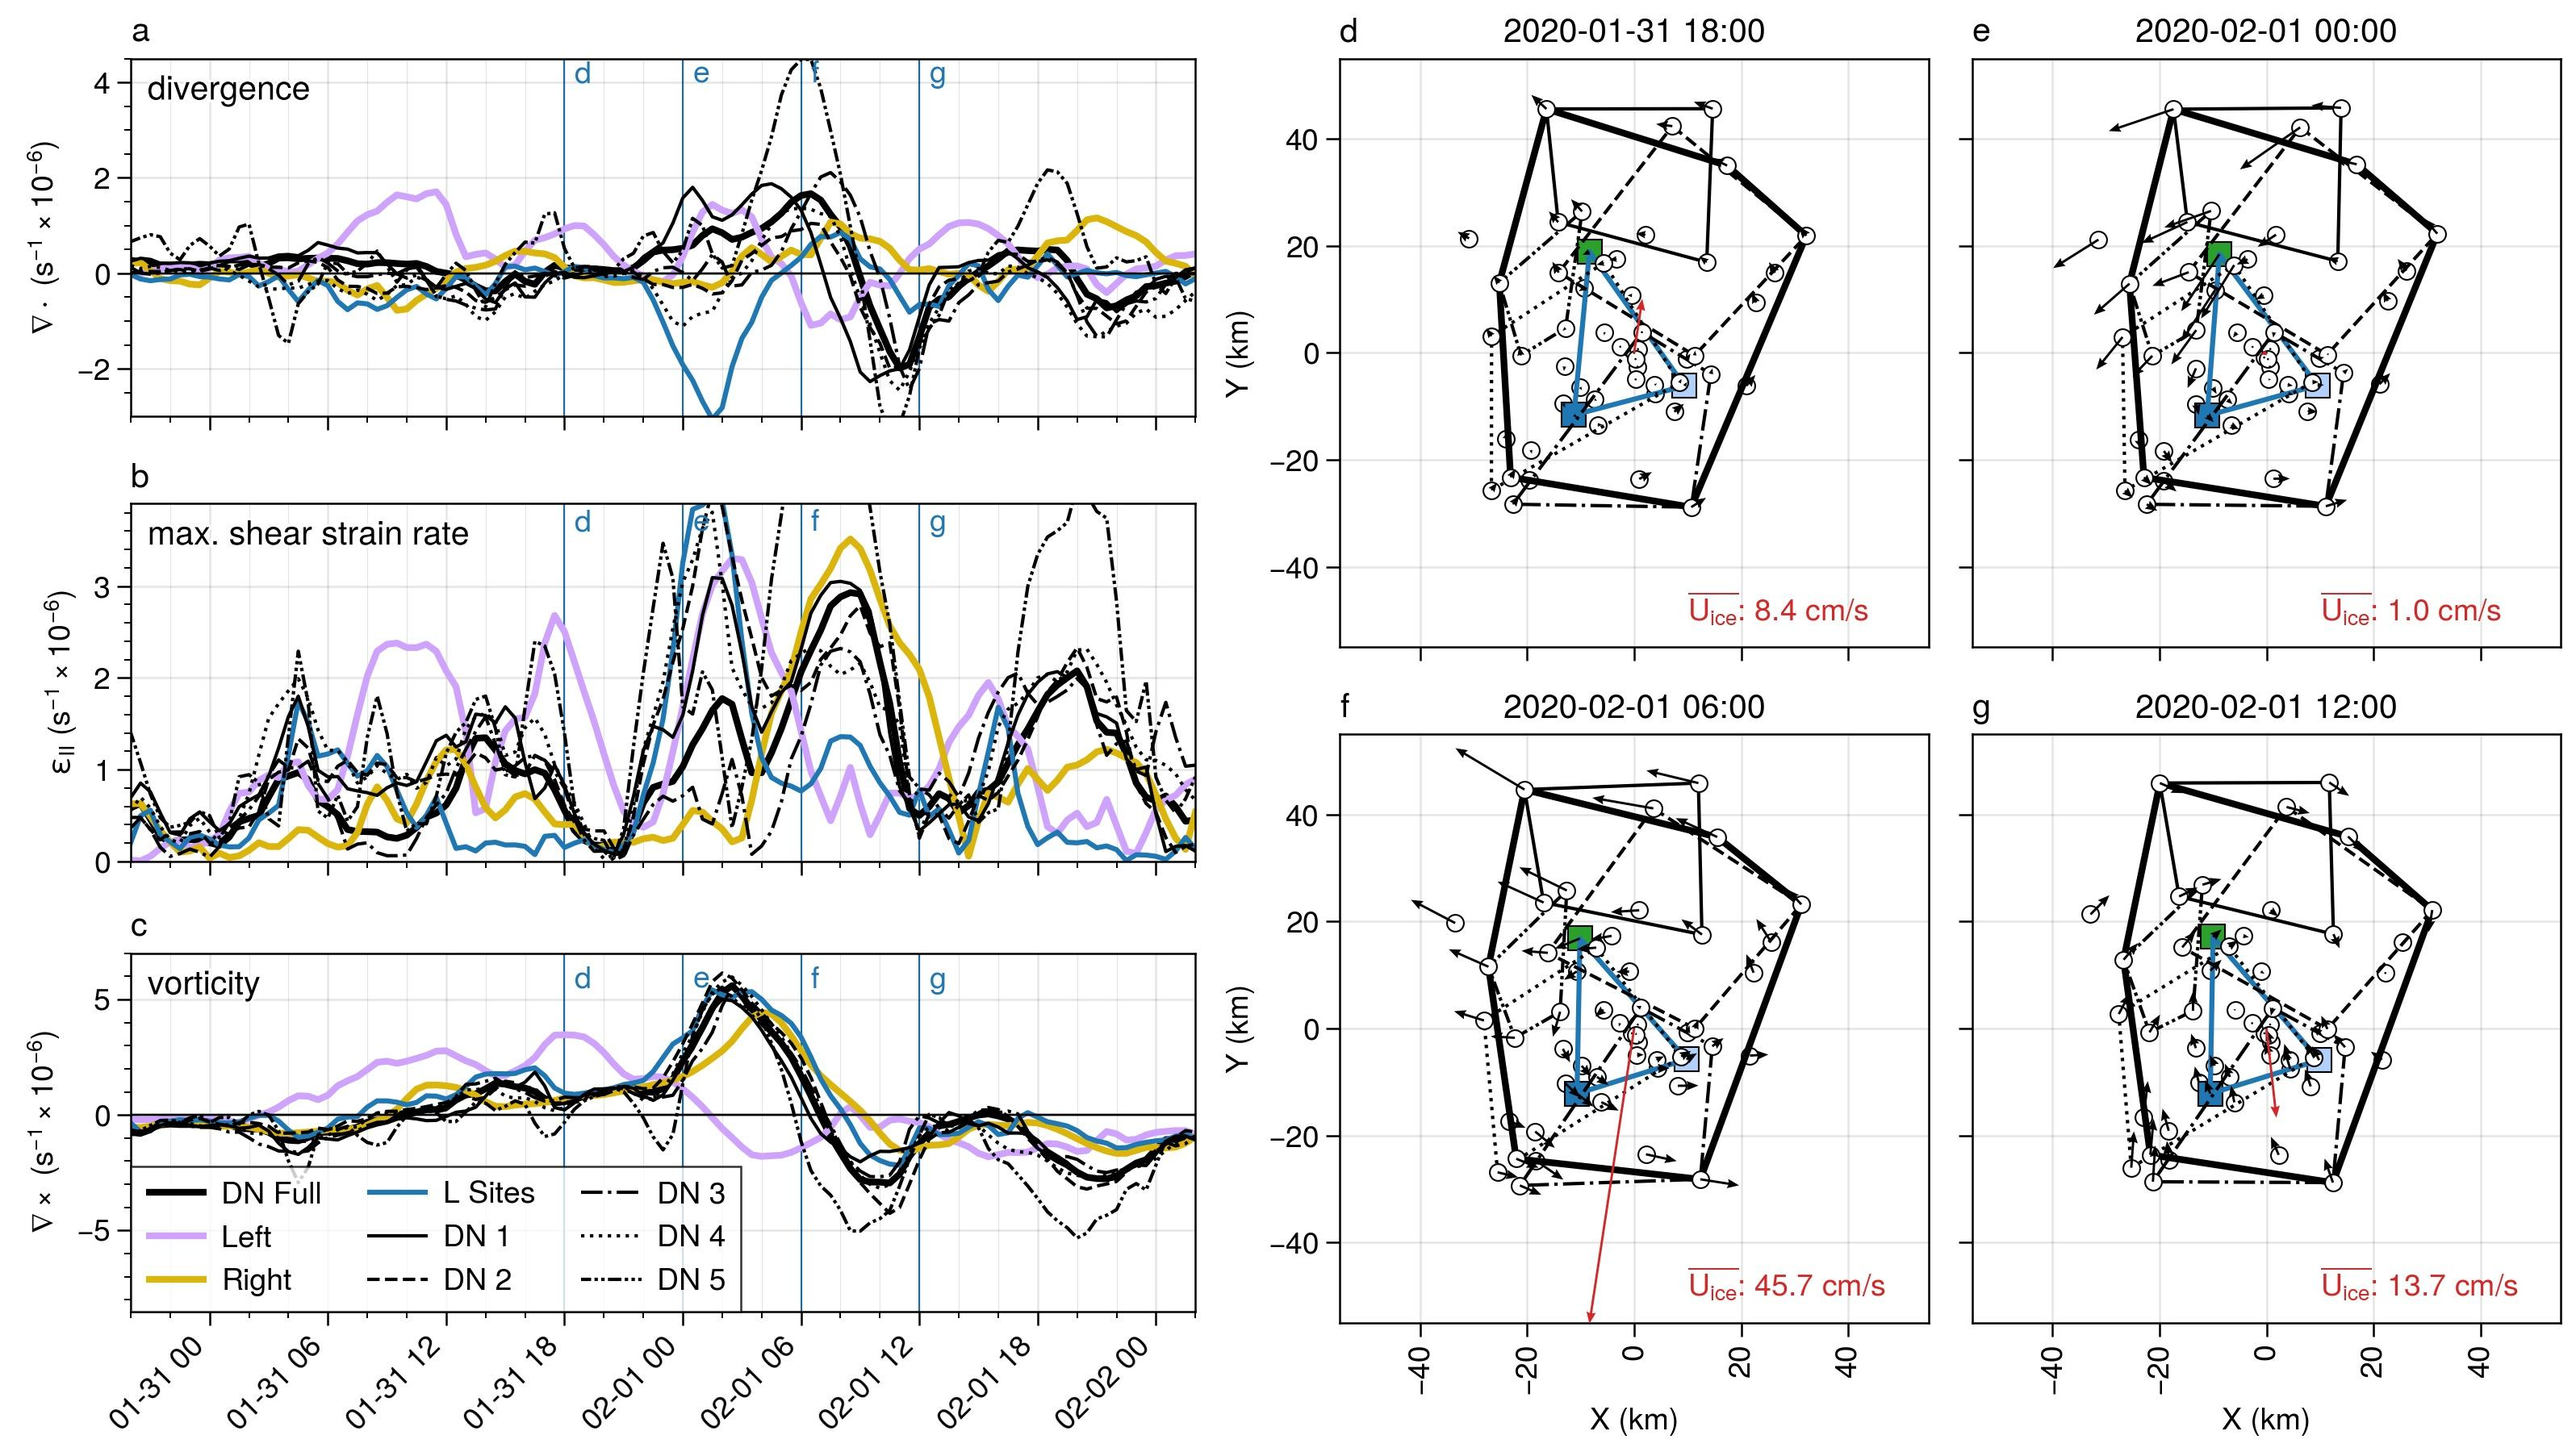
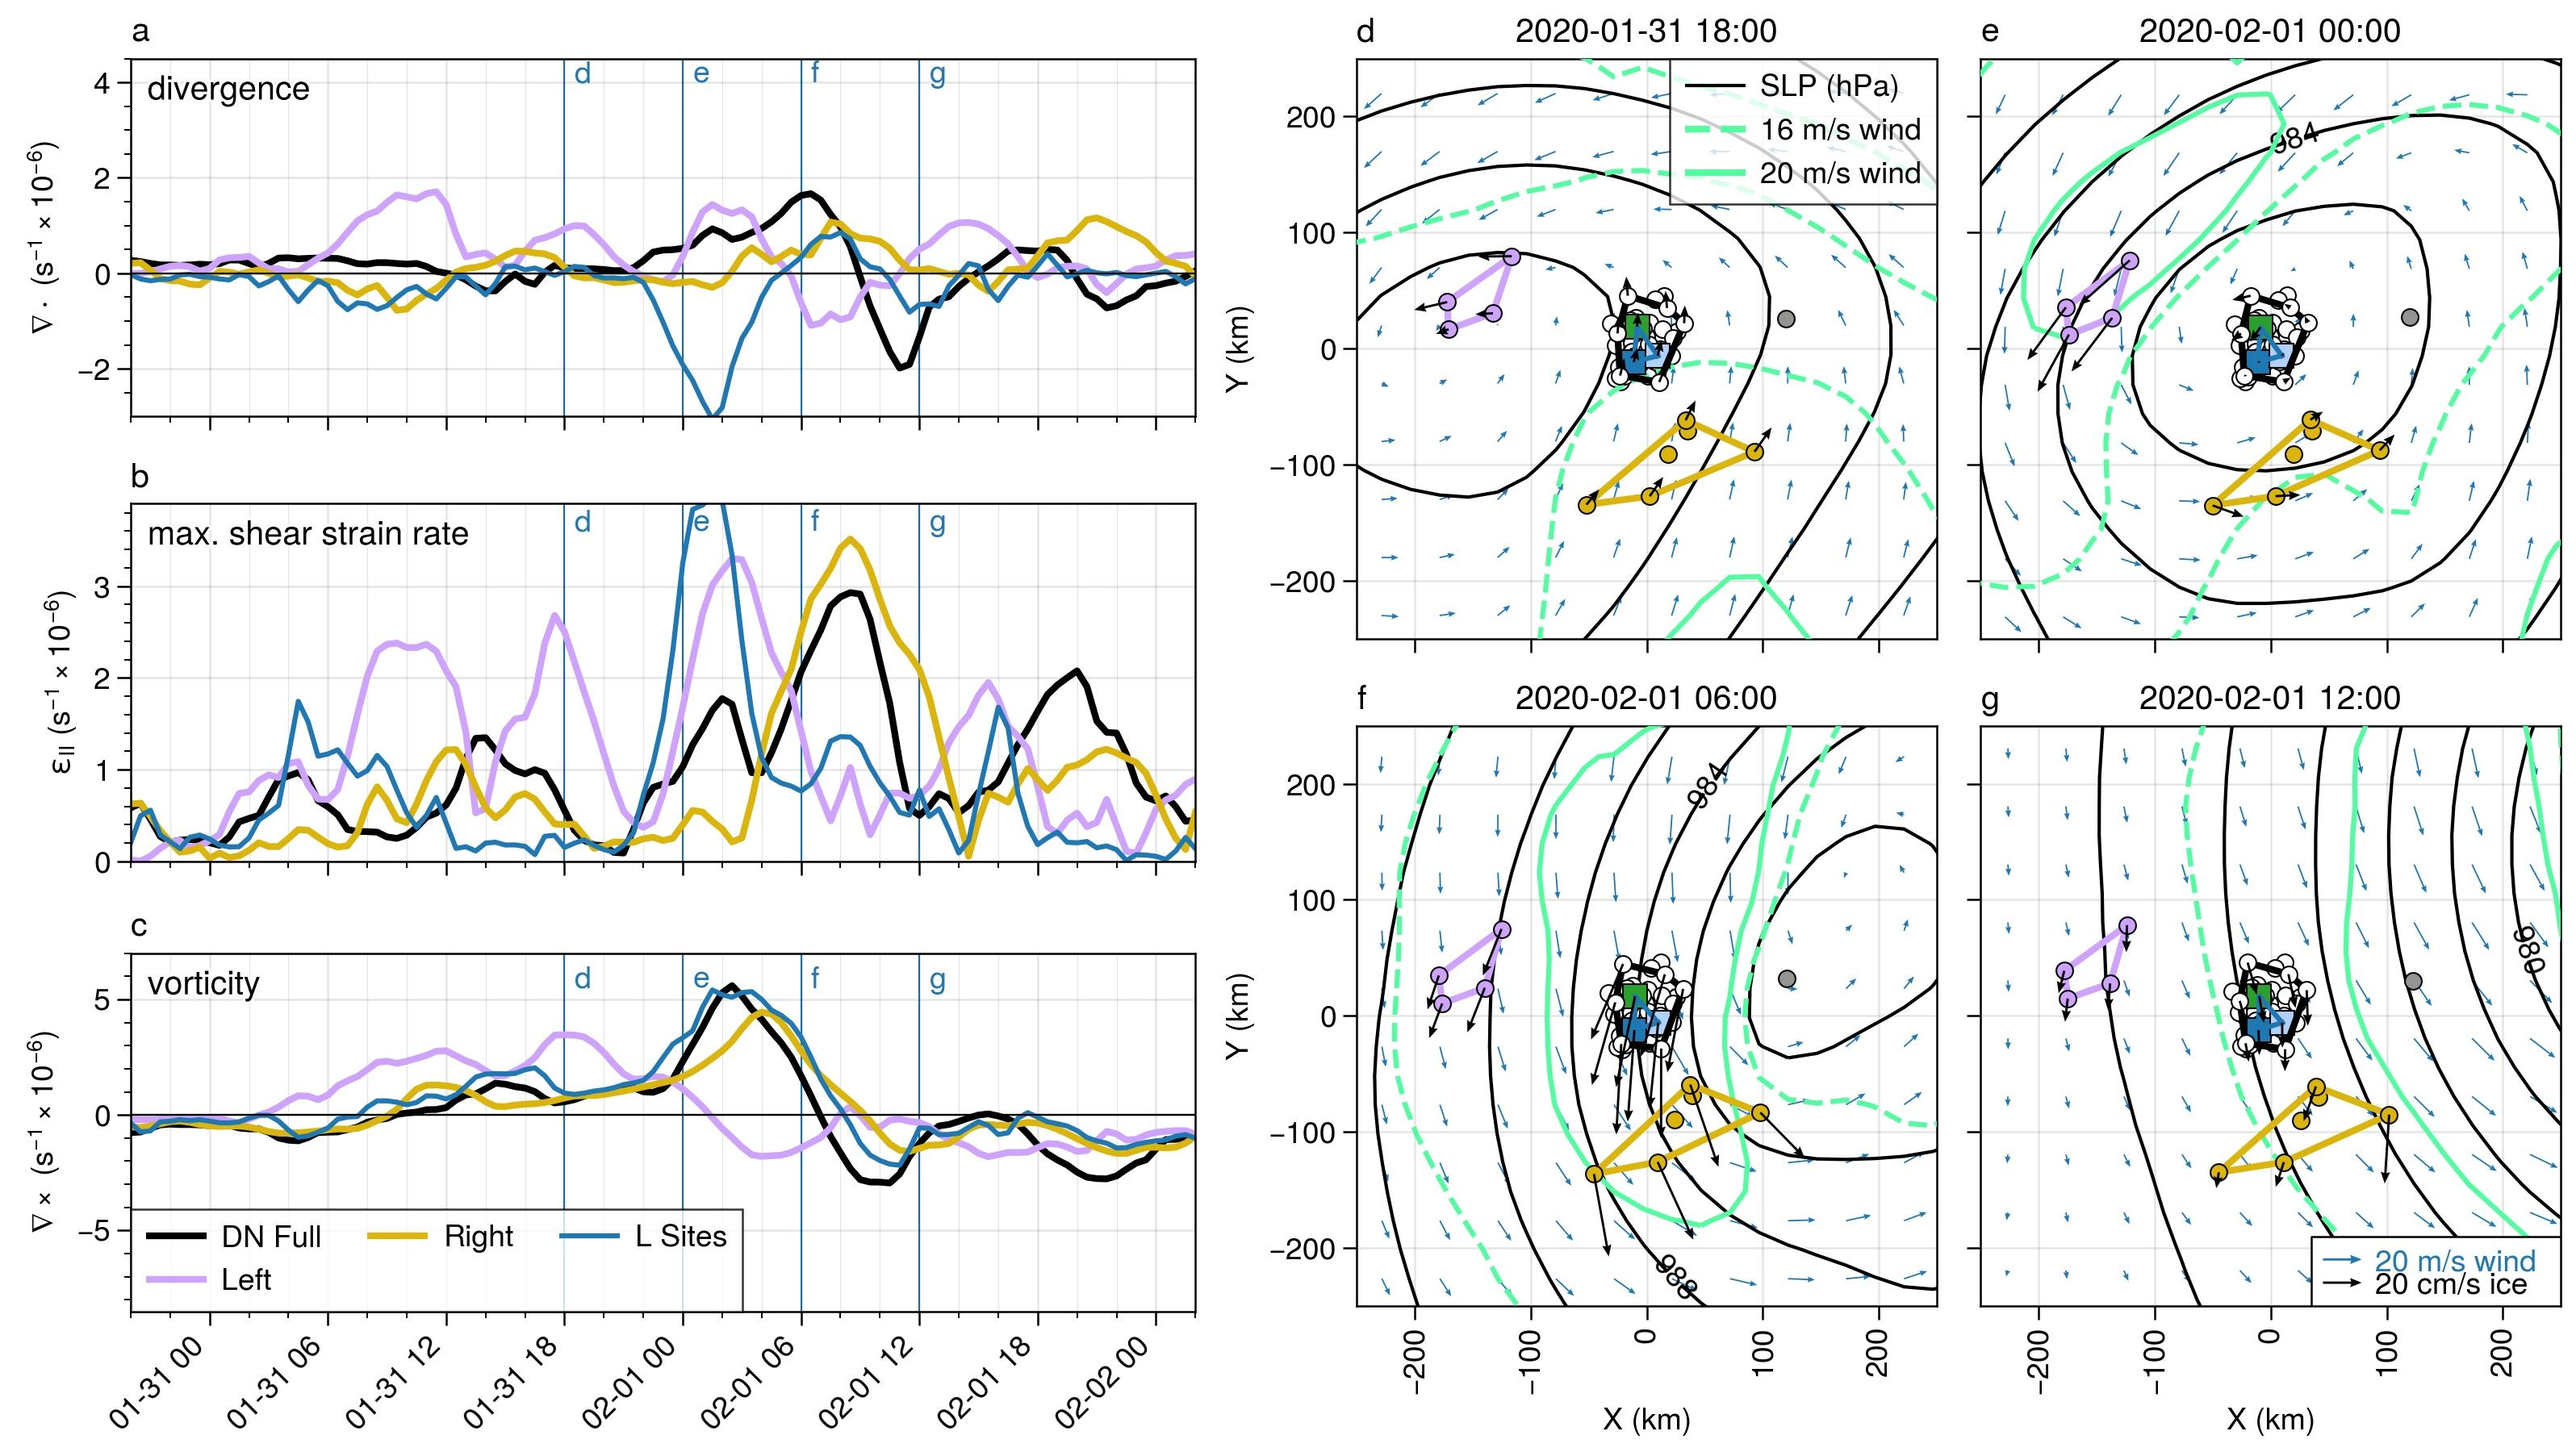
update fig numbering, vectors in plot

diff --git a/scripts/plot_deformation.py b/scripts/plot_deformation.py
@@ -122,11 +122,8 @@ strain_rates = {}
 for set_name in array_info:
     buoys = array_info[set_name].index[::-1]
     strain_rates[set_name] = drifter.compute_strain_rate_components(buoys, buoy_data, position_uncertainty=10)
-print(strain_rates.keys())
 
 """Based on this stackoverflow response: https://stackoverflow.com/questions/30227466/combine-several-images-horizontally-with-python"""
-
-
 def merge_images(files, savename):
     """Concatenates images horizontally"""
     images = [Image.open(x) for x in files]
@@ -157,7 +154,7 @@ cases = {'C1_DN': {'polygons': ['DN_full', 'left', 'right', 'l_sites', 'DN_1', '
                    'xlim': (-55, 55)
                   },
          'C2_DN': {'polygons': ['DN_full', 'left', 'right', 'l_sites', 'DN_1', 'DN_2', 'DN_3', 'DN_4', 'DN_5'],
-                   'fignumber': '09',
+                   'fignumber': '10',
                    'suffix': 'C2_dn',
                    'time_slice': ts_C2,
                    'zoom_times': zoom_plot_dates_C2,
@@ -175,7 +172,7 @@ cases = {'C1_DN': {'polygons': ['DN_full', 'left', 'right', 'l_sites', 'DN_1', '
                     'xlim': (-250, 250)
                    },
          'C2_large': {'polygons': ['DN_full', 'left', 'right', 'l_sites'],
-                   'fignumber': 'S3',
+                   'fignumber': '09',
                    'suffix': 'C2_large',
                    'time_slice': ts_C2,
                    'zoom_times': zoom_plot_dates_C2,
@@ -287,7 +284,18 @@ for case in cases:
         
         
             # add buoy velocity quiver here
-        
+            plot_buoys = []
+            for polygon in cases[case]['polygons']:
+                for buoy in buoy_data: 
+                    if buoy in array_info[polygon].index:
+                        plot_buoys.append(buoy)
+#            print(plot_buoys)
+	     
+            ax.quiver(df_x.loc[date, plot_buoys]/1e3  - x_dn,
+                  df_y.loc[date, plot_buoys]/1e3 - y_dn,
+                  df_u.loc[date, plot_buoys]*100,
+                  df_v.loc[date, plot_buoys]*100,
+                  scale=300, headwidth=4, c = 'k', zorder=6, width=1/250)        
         else:
             # Plot velocity anomalies for all buoys
             df_ua = df_u.loc[date, :] - df_u.loc[date, co_buoy]
